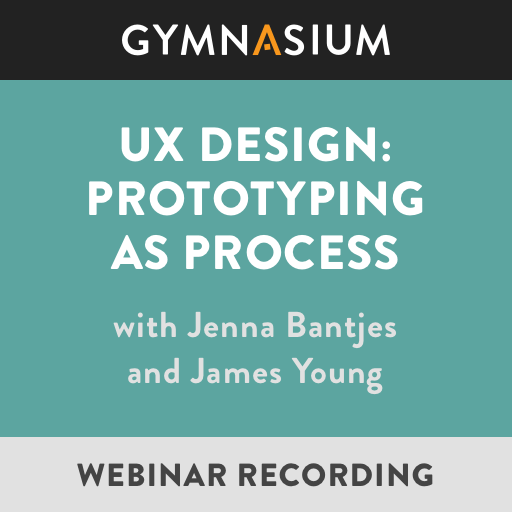
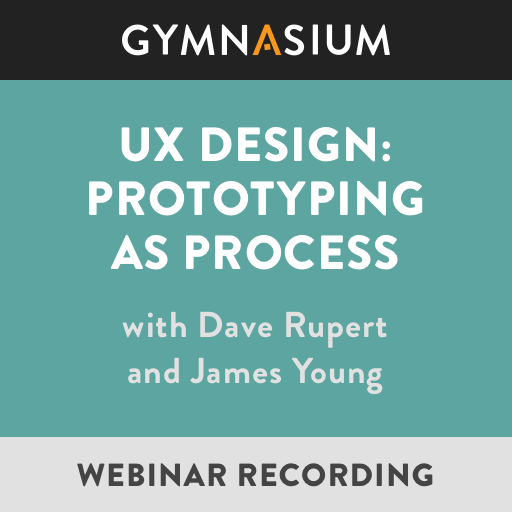
update webinar details

Changed region(s): [[0.2188, 0.5938, 0.7812, 0.6875]]

diff --git a/_includes/bios/drupert.html b/_includes/bios/drupert.html
@@ -1,0 +1,6 @@
+<section class="event-bio">
+    <img alt="Dave Rupert" src="{{ page.baseurl }}/cms/img/bio-dave-rupert.jpg">
+    <h2>Dave Rupert</h2>
+    <p>Dave Rupert is the lead developer at Paravel, a three person web shop based in Austin, TX. He co-hosts the <cite>Shop Talk Show</cite> with Chris Coyier, a weekly sound effects podcast that also covers web design.</p>
+  </section>
+  

diff --git a/_webinars/2019-03-29-prototyping-as-process.md b/_webinars/2019-03-29-prototyping-as-process.md
@@ -1,24 +1,23 @@
 ---
 event_title: "UX Design: Prototyping <span class=\"nowrap\">as Process</span>"
-event_guests: "with Jenna Bantjes <span class=\"nowrap\">and James Young</span>"
+event_guests: "with Dave Rupert <span class=\"nowrap\">and James Young</span>"
 page_title: "Gymnasium Webinar"
 short_description: "Over the years, prototyping has become an integral part of digital product development. Learn the ins and outs of modern design documentation and the new tools that aim to improve it from three industry experts."
-#layout: gym-event-default
-layout: blank
+layout: gym-event-default
 permalink: /webinars/prototyping-as-process/
 collection: webinars
 date: 2019-03-29
-event_date: 2019-04-30
+event_date: 2019-05-14
 event_time: "2:00 PM EDT"
 recording_ogimage: prototyping-as-process-recording-og.png
 host: josborn
 speaker:
-    - jbantjes
+    - drupert
     - jyoung
 content_category: ux
 event_ogimage: prototyping-as-process-registration-og.png
-landing: false
-register: false
+landing: true
+register: true
 recording: false
 video: false
 webinar_ID: 6295135474972801793
